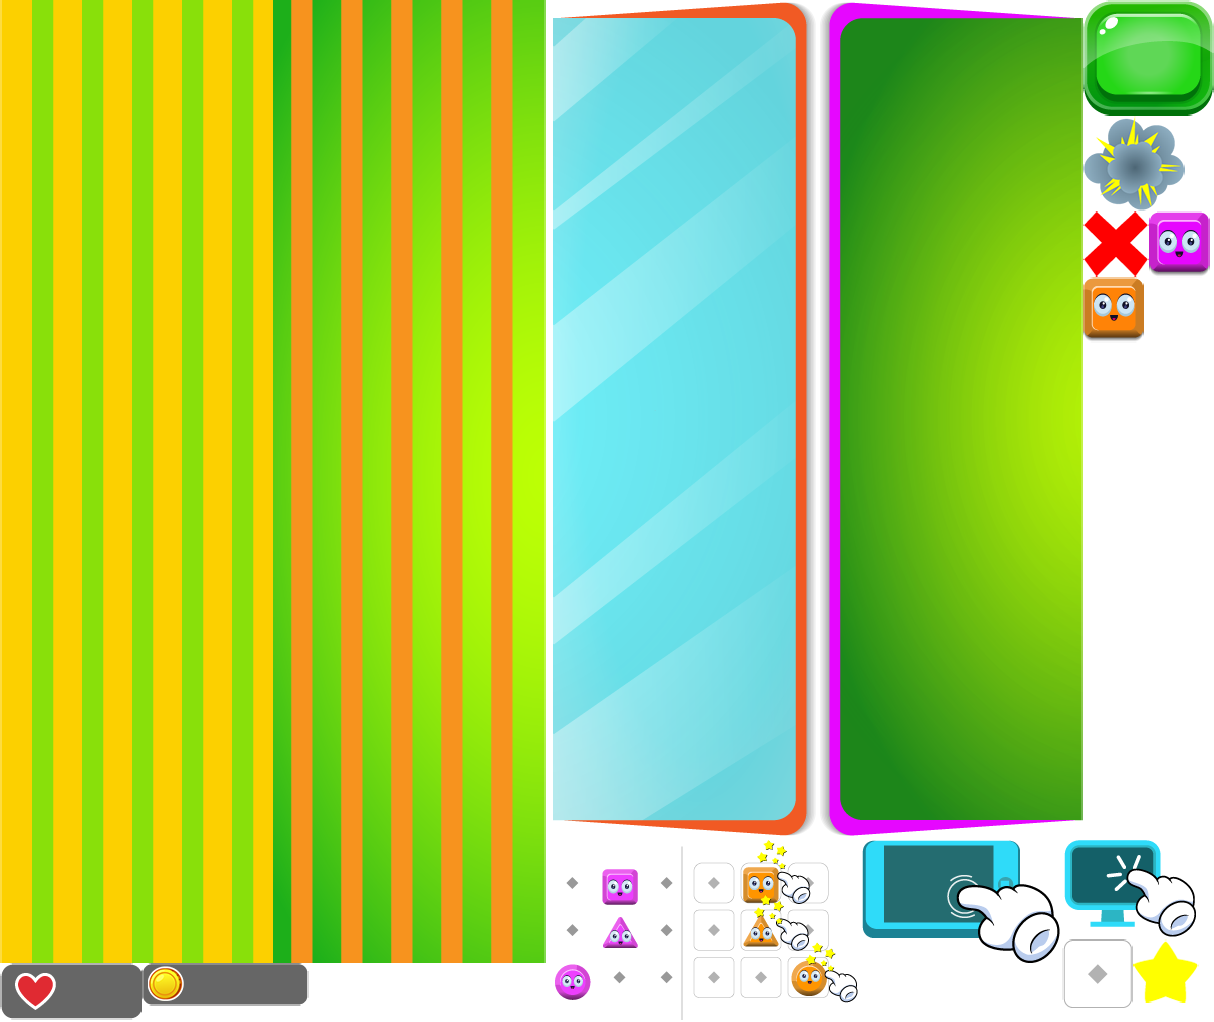
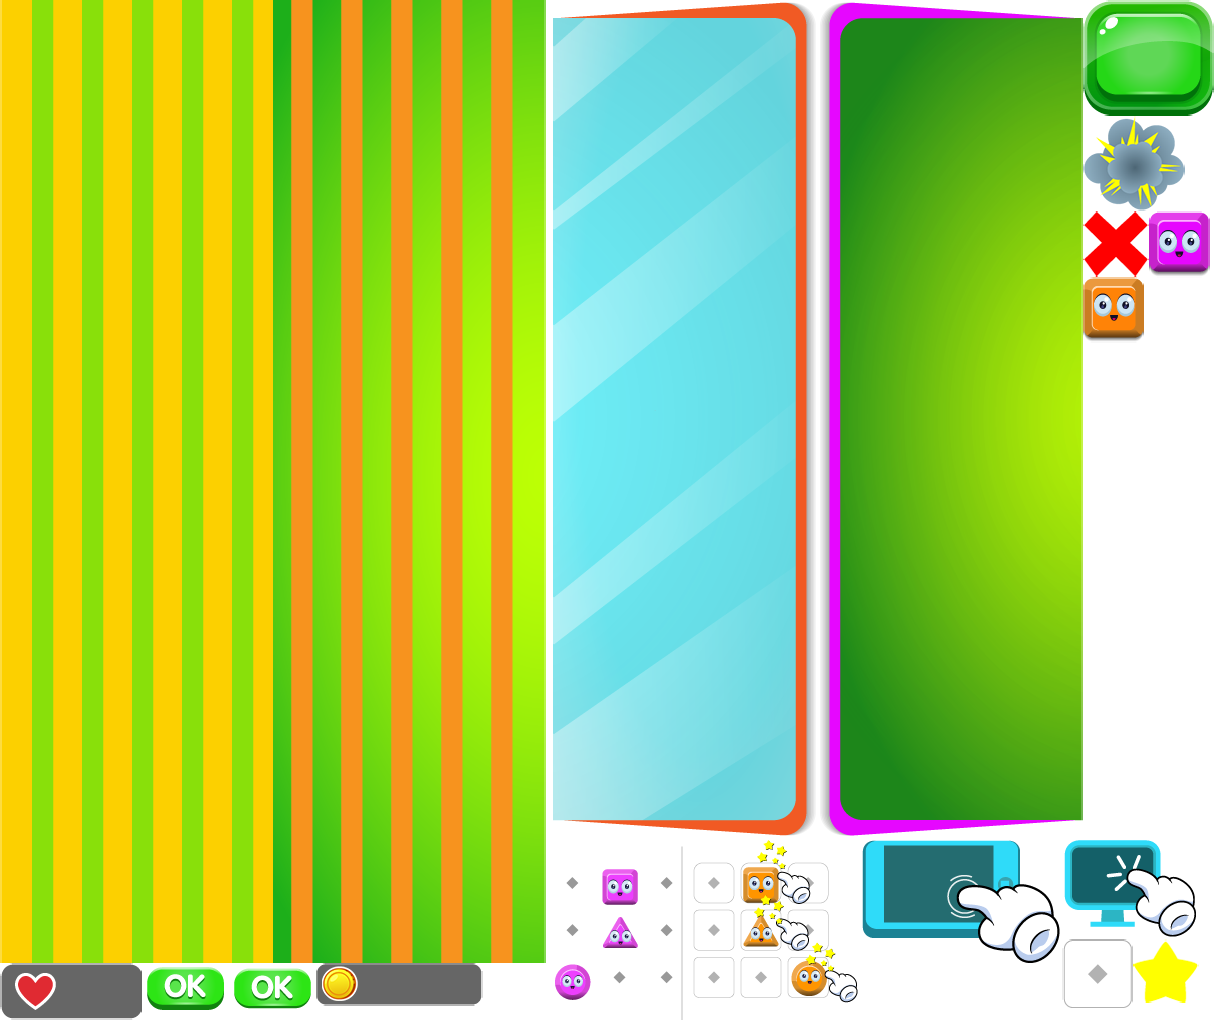
cambios agregados en mirror world

Changed region(s): [[0.0914, 0.9403, 0.3962, 1.0]]

diff --git a/newStructure/minigames/mirrorWorld/js/scenes/mirrorWorld.js b/newStructure/minigames/mirrorWorld/js/scenes/mirrorWorld.js
@@ -34,6 +34,10 @@ var mirrorWorld = function(){
 
         ],
         images: [
+            {
+				name:'tutorial_image',
+				file:"images/mirror/gametuto.png"
+			},
 
 		],
 		sounds: [
@@ -41,8 +45,12 @@ var mirrorWorld = function(){
 				file: soundsPath + "magic.mp3"},
             {	name: "cut",
 				file: soundsPath + "cut.mp3"},
-            {	name: "wrong",
+            {	name: "wrongChoise",
 				file: soundsPath + "wrong.mp3"},
+            {	name: "wrong",
+				file: soundsPath + "wrongAnswer.mp3"},
+            {	name: "rightChoice",
+				file: soundsPath + "rightChoice.mp3"},
             {	name: "explosion",
 				file: soundsPath + "laserexplode.mp3"},
 			{	name: "pop",
@@ -82,11 +90,12 @@ var mirrorWorld = function(){
     var clock, timeBar
     var tempo
     var emitter, notEval, wait
-    var testSide=new Array(30)
-    var gameSide=new Array(30)
-    var iconsComp=new Array(30)
-    var iconsPlayer=new Array(30)
+    var testSide=new Array(27)
+    var gameSide=new Array(27)
+    var iconsComp=new Array(27)
+    var iconsPlayer=new Array(27)
     var dificulty,check,stGame
+    var okGroup
 
 	function loadSounds(){
 		sound.decode(assets.sounds)
@@ -303,7 +312,7 @@ var mirrorWorld = function(){
         }
 
 
-        game.load.image('tutorial_image',"images/mirror/tutorial_image_"+inputName+".png")
+        //game.load.image('tutorial_image',"images/mirror/tutorial_image_"+inputName+".png")
         //loadType(gameIndex)
 
         
@@ -426,13 +435,15 @@ var mirrorWorld = function(){
         //Two parts game
         
         
-        gameLeft=game.add.sprite(game.world.centerX-135,game.world.centerY,"atlas.mirror","izq2");
+        gameLeft=game.add.sprite(game.world.centerX-135,game.world.centerY - 30,"atlas.mirror","izq2");
         gameLeft.anchor.setTo(0.5,0.5)
+        gameLeft.scale.setTo(1,0.9)
         backgroundGroup.add(gameLeft)
         
         
-        gameRight=game.add.sprite(game.world.centerX+135,game.world.centerY,"atlas.mirror","der2");
+        gameRight=game.add.sprite(game.world.centerX+135,game.world.centerY - 30,"atlas.mirror","der2");
         gameRight.anchor.setTo(0.5,0.5)
+        gameRight.scale.setTo(1,0.9)
         backgroundGroup.add(gameRight)
         
         //Center
@@ -459,7 +470,7 @@ var mirrorWorld = function(){
             
             iconsComp[fill]=game.add.spine(gameLeft.x+70*moveX,11*moveY,"piece")
             iconsComp[fill].setSkinByName("circle")
-            iconsComp[fill].setAnimationByName(0,"IDLE_PURPLE",true) 
+            iconsComp[fill].setAnimationByName(0,"idle_purple",true) 
             iconsComp[fill].position.x-=60
             iconsComp[fill].alpha=0
             
@@ -479,7 +490,7 @@ var mirrorWorld = function(){
             
             iconsPlayer[fill]=game.add.spine(gameRight.x+70*moveX,11*moveY,"piece")
             iconsPlayer[fill].setSkinByName("circle")
-            iconsPlayer[fill].setAnimationByName(0,"IDLE_ORANGE",true)
+            iconsPlayer[fill].setAnimationByName(0,"idle_orange",true)
             iconsPlayer[fill].position.x-=80
             iconsPlayer[fill].tag="empty"
             
@@ -501,16 +512,13 @@ var mirrorWorld = function(){
         }
     }
 	
-
-
-  
     
 	function update(){
         
         
         if(startGame){
             epicparticles.update()
-            if(stGame)checkMirror()
+            //if(stGame)checkMirror()
             
             
             iconsPlayer[0].slotContainers[0].rotation=180
@@ -568,61 +576,101 @@ var mirrorWorld = function(){
                 iconsPlayer[obj.name].setSkinByName("circle")
             }
 
-            iconsPlayer[obj.name].setAnimationByName(0,"IDLE_ORANGE",true) 
+            iconsPlayer[obj.name].setAnimationByName(0,"idle_orange",true) 
         }
         
     }
     
     function checkMirror(){
         check=0
+        var delay = 300
+        var correct = false
+         wait=true
+        stopTimer()
         
         for(var checking=1; checking<iconsPlayer.length-1;checking+=3){
             if(iconsPlayer[checking].tag==iconsComp[checking].tag){
                 check++
+                correct = true
             }
+            tintImage(delay, iconsPlayer[checking], correct)
+            correct = false
+            if(iconsPlayer[checking].tag !== 'empty')
+                delay += 400
+            
             if(iconsPlayer[checking-1].tag==iconsComp[checking+1].tag){
                 check++
+                correct = true
             }
+            tintImage(delay, iconsPlayer[checking-1], correct)
+            correct = false
+            if(iconsPlayer[checking-1].tag !== 'empty')
+                delay += 400
+            
             if(iconsPlayer[checking+1].tag==iconsComp[checking-1].tag){
                 check++
+                correct = true
             }
-            
+            tintImage(delay, iconsPlayer[checking+1], correct)
+            correct = false
+            if(iconsPlayer[checking+1].tag !== 'empty')
+                delay += 400
         }
         
-        if(check==30 && !notEval){
-            Coin(center,pointsBar,100)
-            wait=true
-            stopTimer()
-            if(dificulty<30){
-                dificulty++
-                tempo-=50
-            }
+        game.time.events.add(delay + 300,function(){
             
-            check=0
-            stGame=false
-            for(var outing=0;outing<iconsComp.length;outing++){
-                game.add.tween(iconsComp[outing].scale).to({x:1.2,y:1.2},500, Phaser.Easing.Linear.Out, true)
-                game.add.tween(iconsComp[outing].scale).to({x:0,y:0},500, Phaser.Easing.Linear.Out, true,900)
-                game.add.tween(iconsComp[outing]).to({alpha:0},100,Phaser.Easing.linear,true, 2000) 
-
-                game.add.tween(iconsPlayer[outing].scale).to({x:1.2,y:1.2},500, Phaser.Easing.Linear.Out, true)
-                game.add.tween(iconsPlayer[outing].scale).to({x:0,y:0},500, Phaser.Easing.Linear.Out, true,900)
-                game.add.tween(iconsPlayer[outing]).to({alpha:0},100,Phaser.Easing.linear,true, 1900) 
-                game.add.tween(iconsPlayer[outing].scale).to({x:1,y:1},200, Phaser.Easing.Linear.Out, true,2000)
-            }
-            
-            game.time.events.add(2200,function(){
-                
-                for(var reset=0; reset<iconsPlayer.length;reset++){
-                    iconsPlayer[reset].tag="empty"
-                    iconsPlayer[reset].setSkinByName("circle")
-                    iconsPlayer[reset].setAnimationByName(0,"IDLE_ORANGE",true) 
-                    iconsComp[reset].tag="empty"
+            if(check==27 && !notEval){
+                Coin(center,pointsBar,100)
+                if(dificulty<27){
+                    dificulty++
+                    tempo-=50
                 }
-                createPat()
-            })
-        }
+
+                check=0
+                stGame=false
+
+
+                for(var outing=0;outing<iconsComp.length;outing++){
+                    game.add.tween(iconsComp[outing].scale).to({x:1.2,y:1.2},500, Phaser.Easing.Linear.Out, true)
+                    game.add.tween(iconsComp[outing].scale).to({x:0,y:0},500, Phaser.Easing.Linear.Out, true,900)
+                    game.add.tween(iconsComp[outing]).to({alpha:0},100,Phaser.Easing.linear,true, 2000) 
+
+                    game.add.tween(iconsPlayer[outing].scale).to({x:1.2,y:1.2},500, Phaser.Easing.Linear.Out, true)
+                    game.add.tween(iconsPlayer[outing].scale).to({x:0,y:0},500, Phaser.Easing.Linear.Out, true,900)
+                    game.add.tween(iconsPlayer[outing]).to({alpha:0},100,Phaser.Easing.linear,true, 1900) 
+                    game.add.tween(iconsPlayer[outing].scale).to({x:1,y:1},200, Phaser.Easing.Linear.Out, true,2000)
+                }
+
+                game.time.events.add(2200,function(){
+
+                    for(var reset=0; reset<iconsPlayer.length;reset++){
+                        iconsPlayer[reset].tag="empty"
+                        iconsPlayer[reset].setSkinByName("circle")
+                        iconsPlayer[reset].setAnimationByName(0,"idle_orange",true) 
+                        iconsComp[reset].tag="empty"
+                    }
+                    createPat()
+                })
+            }
+            else{  
+                loseGame()
+            }
+        },this)
         
+    }
+    
+    function tintImage(delay, obj, correct){
+        game.time.events.add(delay,function(){
+            
+            if(correct){
+                sound.play('rightChoice')
+                obj.setAnimationByName(0,"win",true) 
+            }
+            else{
+                sound.play('wrongChoise')
+                obj.setAnimationByName(0,"lose",true) 
+            }
+        },this)
     }
     
     
@@ -644,15 +692,20 @@ var mirrorWorld = function(){
        function startTimer(time){
             tweenTiempo=game.add.tween(timeBar.scale).to({x:0,y:.35}, time, Phaser.Easing.Linear.Out, true, 100)
             tweenTiempo.onComplete.add(function(){
-                wait=true
+                loseGame()
+        })
+    }
+    
+    function loseGame(){
+        
+        wait=true
                 missPoint()
-                stopTimer()
                 notEval=true
                 for(var reset=0; reset<iconsPlayer.length;reset++){
                     iconsPlayer[reset].tag="empty"
                     iconsPlayer[reset].setSkinByName("circle")
-                    iconsPlayer[reset].setAnimationByName(0,"LOSE_ORANGE",true)
-                    iconsComp[reset].setAnimationByName(0,"LOSE_PURPLE",true) 
+                    iconsPlayer[reset].setAnimationByName(0,"lose_orange",true)
+                    iconsComp[reset].setAnimationByName(0,"lose_purple",true) 
                     iconsComp[reset].tag="empty"
                 }
                 
@@ -672,16 +725,15 @@ var mirrorWorld = function(){
                     })
                 })
                 
-        })
     }
     
     function createPat(){
         
         var howMany=0
-        var where=game.rnd.integerInRange(0,29)
+        var where=game.rnd.integerInRange(0,26)
         var whichPiece=game.rnd.integerInRange(1,3)
         while(howMany!=dificulty){
-            where=game.rnd.integerInRange(0,29)
+            where=game.rnd.integerInRange(0,26)
             whichPiece=game.rnd.integerInRange(1,3)
             if(iconsComp[where].tag=="empty"){
                 if(whichPiece==1){
@@ -695,7 +747,7 @@ var mirrorWorld = function(){
                     iconsComp[where].setSkinByName(iconsComp[where].tag)
                 }
                 iconsComp[where].alpha=1
-                iconsComp[where].setAnimationByName(0,"IDLE_PURPLE",true)
+                iconsComp[where].setAnimationByName(0,"idle_purple",true)
                 howMany++
                 
             }
@@ -895,6 +947,36 @@ var mirrorWorld = function(){
 		}
 		
 	}
+    
+    function okBtn(){
+        
+        okGroup = game.add.group()
+        sceneGroup.add(okGroup)
+        
+        var okOff = okGroup.create(game.world.centerX, game.world.height - 60, 'atlas.mirror', 'Ok_off')
+        okOff.anchor.setTo(0.5) 
+        okOff.scale.setTo(1.5) 
+        okOff.inputEnabled = true
+        okOff.events.onInputDown.add(okPressed, this)   
+        okOff.events.onInputUp.add(okRelased, this) 
+        
+        var okOn = okGroup.create(game.world.centerX, game.world.height - 60, 'atlas.mirror', 'Ok_on')
+        okOn.anchor.setTo(0.5) 
+        okOn.scale.setTo(1.5) 
+        okOn.alpha = 0
+    }
+    
+    function okPressed(){
+        
+        if(stGame){
+            changeImage(1, okGroup)
+            checkMirror()
+        }
+    }
+    
+    function okRelased(){
+        changeImage(0, okGroup)
+    }
 	
 	return {
 		
@@ -929,7 +1011,7 @@ var mirrorWorld = function(){
 			            
 			createPointsBar()
 			createHearts()
-			
+			okBtn()
 			buttons.getButton(spaceSong,sceneGroup)
             createOverlay()
             
